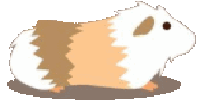
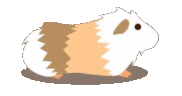
bugfix csúszások, Tango megmenekül

diff --git a/SaveTango/BoardWindow.xaml b/SaveTango/BoardWindow.xaml
@@ -20,12 +20,12 @@
                     <ColumnDefinition Width="*"></ColumnDefinition>
                     <ColumnDefinition Width="*"></ColumnDefinition>
                 </Grid.ColumnDefinitions>
-                <Label Grid.Column="1" Content="Moves:"  Height="50" FontSize="30" Margin="10,0,0,0" />
+                <Label Grid.Column="1"  ContentStringFormat="Moves:{0}" Content="{Binding Moves}"  Height="50" FontSize="30" Margin="10,0,0,0" />
                 <Label Grid.Column="2" Content="Level x" HorizontalContentAlignment="Right" Height="50" FontSize="30"  />
                 <Label Grid.Column="3" Content="Time:"  HorizontalContentAlignment="Center" Height="50" FontSize="30"  />
                 <Label Grid.Column="4" Content="{Binding GamePlay.PlayerTime}"  Height="50" FontSize="30" />
-                <TextBox x:Name="TextboxTest" HorizontalAlignment="Left" Height="97" Margin="10,10,0,0" TextWrapping="Wrap" Text="{Binding GamePlay.LevelSetup[1].OnTableX}" VerticalAlignment="Top" Width="473" Grid.ColumnSpan="3"/>
-                <TextBox x:Name="TextboxTest2" HorizontalAlignment="Left" Height="97" Margin="98,10,0,0" TextWrapping="Wrap" Text="{Binding GamePlay.LevelSetup[1].OnTableX}" VerticalAlignment="Top" Width="385" Grid.ColumnSpan="3" Grid.Column="3" FontSize="8"/>
+                <TextBox x:Name="TextboxTest" HorizontalAlignment="Left" Height="24" Margin="10,10,0,0" TextWrapping="Wrap" VerticalAlignment="Top" Width="473" Grid.ColumnSpan="3"/>
+                <TextBox x:Name="TextboxTest2" HorizontalAlignment="Left" Height="97" Margin="98,10,0,0" TextWrapping="Wrap"  VerticalAlignment="Top" Width="385" Grid.ColumnSpan="3" Grid.Column="3" FontSize="8"/>
 
             </Grid>
 

diff --git a/SaveTango/MainWindow.xaml b/SaveTango/MainWindow.xaml
@@ -25,4 +25,5 @@
         <Button x:Name="button_main_exit" Content="Exit" HorizontalAlignment="Center" Margin="0,0,0,0" VerticalAlignment="Center" Width="200" Height="60" Grid.Row="4" FontWeight="Bold" FontSize="28"/>
 
     </Grid>
+    
 </Window>

diff --git a/SaveTango/BoardWindow.xaml.cs b/SaveTango/BoardWindow.xaml.cs
@@ -52,6 +52,10 @@
 
         private Direction Direction { get; set; }
 
+        private Image actualImage;
+
+        private Tango tango;
+
         /// <summary>
         /// Az ablak betöltődésekor lefutó metódus, ami felteszi a grafikus felületre a setupnak megfelelően a Blockkokat, ill.
         /// feliratkoztat a Mouse metódusokra
@@ -190,9 +194,13 @@
         /// <param name="e">az OnMouseUp metódus MouseButtonEventArgs típusú paramétere (automatikus)</param>
         private void OnMouseUp(object sender, MouseButtonEventArgs e)
         {
+            timer = new DispatcherTimer();
+            timer.Interval = new TimeSpan(0, 0, 0, 0, 20);
+            timer.Tick += Timer_Tick;
             this.pressed = false;
             if (sender is Image)
             {
+                this.actualImage = (Image)sender;
                 int gx = (int)Canvas.GetTop((Image)sender);
                 int gy = (int)Canvas.GetLeft((Image)sender);
                 int getX = 0;
@@ -218,31 +226,88 @@
                     getY = (int)Canvas.GetLeft((Image)sender) / 100;
                     missingY = (gy % 100) * (-1);
                 }
-                string tesztszoveg = "gx " + gx + "getX "+ getX + "missingX"+ missingX +"gy" + gy + "getY" + getY + "missingY"+missingY;
-                TextboxTest.Text = tesztszoveg;
+
                 // itt mindig a Block InitialX- és InitialY elemét kell kapnia, különben exceptiont dob
                 if (this.ActualBlock != null)
                 {
+                    this.timer.Start();
                     if (getX != this.ActualBlock.OnTableX || getY != this.ActualBlock.OnTableY)
                     {
-                        timer = new DispatcherTimer();
-                        timer.Interval = new TimeSpan(0, 0, 0, 0, 20);
-                        //timer.Tick += Timer_Tick;
                         this.Gameplay.ActualSetupUpdater(this.ActualBlock, getX, getY, this.Direction);
+                        bwVM.MoveCounter();
+
                     }
                 }
             }
 
             Mouse.Capture(null);
             ActualBlock = null;
+
+            Gameplay.DoesWeHaveAWinner();
+            if (this.Gameplay.IsTangoSaved)
+            {
+                MessageBox.Show("nyertél");
+            }
             BoolTombotKiir();
+
         }
 
         private void Timer_Tick(object sender, EventArgs e)
         {
-            if (missingX > 0)
+            // lefelé
+            if (this.missingX > 0)
             {
+                for (int i = 0; i < this.missingX; i++)
+                {
+                    double top = Canvas.GetTop(this.actualImage) + 1;
+                    Canvas.SetTop(this.actualImage, top);
+                }
 
+                missingX = 0;
+                missingY = 0;
+                this.timer.Stop();
+            }
+
+            // felfelé
+            else if (this.missingX < 0)
+            {
+                for (int i = 0; i > this.missingX; i--)
+                {
+                    double top = Canvas.GetTop(this.actualImage) - 1;
+                    Canvas.SetTop(this.actualImage, top);
+                }
+
+                missingX = 0;
+                missingY = 0;
+                this.timer.Stop();
+            }
+
+            // jobbra
+            else if (this.missingY > 0)
+            {
+                for (int i = 0; i < this.missingY; i++)
+                {
+                    double left = Canvas.GetLeft(this.actualImage) + 1;
+                    Canvas.SetLeft(this.actualImage, left);
+                }
+
+                missingX = 0;
+                missingY = 0;
+                this.timer.Stop();
+            }
+
+            // balra
+            else if (this.missingY < 0)
+            {
+                for (int i = 0; i > this.missingY; i--)
+                {
+                    double left = Canvas.GetLeft(this.actualImage) - 1;
+                    Canvas.SetLeft(this.actualImage, left);
+                }
+
+                missingX = 0;
+                missingY = 0;
+                this.timer.Stop();
             }
         }
 
@@ -320,7 +385,8 @@
                 tomb += '\n';
             }
             TextboxTest2.Text = tomb;
-
+            //tesztszoveg = "balra: " + i;
+            //TextboxTest.Text = tesztszoveg;
 
         }
     }

diff --git a/SaveTango/Model/GamePlay.cs b/SaveTango/Model/GamePlay.cs
@@ -34,10 +34,12 @@
             };
             this.MakeADictionary();
             this.TheCollisionTableCreator();
+            this.IsTangoSaved = false;
             //this.StopwatchTimer();
             
         }
 
+        public bool IsTangoSaved { get; set; }
         public Board Board { get; set; }
         
         /// <summary>
@@ -67,20 +69,6 @@
             }
         }
 
-        /// <summary>
-        /// a játékos által elhúzott blokkok száma
-        /// </summary>
-        private int moves;
-
-        public int Moves
-        {
-            get { return this.moves; }
-
-            set { this.moves = value;
-                OnPropertyChanged("Moves");
-            }
-        }
-
         public int MinLimitLeft { get; set; }
 
         public int MaxLimitRight { get; set; }
@@ -95,6 +83,15 @@
         {
             Block block = this.imageBlockDictionary[image];
             return block;
+        }
+
+        public void DoesWeHaveAWinner()
+        {
+            if (this.LevelSetup[this.LevelSetup.Count - 1] is Tango)
+            {
+                Tango tango = (Tango)this.LevelSetup[this.LevelSetup.Count - 1];
+                this.IsTangoSaved = tango.IsTangoSaved();
+            }
         }
 
         /// <summary>
@@ -221,6 +218,11 @@
                 }
 
                 actualBlock.OnTableX = stepX;
+                if (actualBlock is Tango)
+                {
+                    this.LevelSetup[this.LevelSetup.Count - 1].OnTableX = stepX;
+                }
+
                 this.Board.Table[actualBlock.OnTableX, actualBlock.OnTableY] = FieldType.Taken;
 
                 if (direction == Direction.Up || direction == Direction.Down)
@@ -252,6 +254,10 @@
                     }
 
                     actualBlock.OnTableY = stepY;
+                    if (actualBlock is Tango)
+                    {
+                        this.LevelSetup[this.LevelSetup.Count - 1].OnTableY = stepY;
+                    }
                     this.Board.Table[actualBlock.OnTableX, actualBlock.OnTableY] = FieldType.Taken;
                     if (actualBlock.BlockLength == 2)
                     {
@@ -318,7 +324,7 @@
                 }
             }
         }
-
+        
         //public void StopwatchTimer() {
         //    Stopwatch stopWatch = new Stopwatch();
         //    stopWatch.Start();

diff --git a/SaveTango/ViewModel/BoardWindowViewModel.cs b/SaveTango/ViewModel/BoardWindowViewModel.cs
@@ -11,19 +11,37 @@ using System.Windows.Media.Imaging;
 
 namespace SaveTango.ViewModel
 {
-    public class BoardWindowViewModel
+    public class BoardWindowViewModel : Bindable
     {
         
 
         public GamePlay GamePlay { get; set; }
 
-        
+        /// <summary>
+        /// a játékos által elhúzott blokkok száma
+        /// </summary>
+        private int moves;
+        public int Moves
+        {
+            get { return this.moves; }
+
+            set
+            {
+                this.moves = value;
+                OnPropertyChanged("moves");
+            }
+        }
 
         public BoardWindowViewModel()
         {
             this.GamePlay = new GamePlay();
+            this.Moves = 0;
         }
 
+        public void MoveCounter()
+        {
+            this.Moves++;
+        }
 
     }
 }

diff --git a/SaveTango/Model/Tango.cs b/SaveTango/Model/Tango.cs
@@ -19,7 +19,6 @@ namespace SaveTango.Model
             this.BlockImage = this.GetMeTheBestTangoPicture();
             this.OnTableY = 0; // oszlop
             this.OnTableX = 2; // sor
-            this.IsSaved = false;
         }
 
         /// <summary>
@@ -55,10 +54,7 @@ namespace SaveTango.Model
             img.Source = new BitmapImage(uri);
             return img;
         }
-
-        public bool IsSaved { get; set; }
         
-
         public bool IsTangoSaved()
         {
             if (this.OnTableX == 2 && this.OnTableY == 4)

diff --git a/SaveTango/Model/Bindable.cs b/SaveTango/Model/Bindable.cs
@@ -18,7 +18,7 @@ namespace SaveTango.Model
         {
             if (this.PropertyChanged != null)
             {
-                this.PropertyChanged(propertyname, new PropertyChangedEventArgs("propertyname"));
+                this.PropertyChanged(this, new PropertyChangedEventArgs(propertyname));
             }
         }
     }
